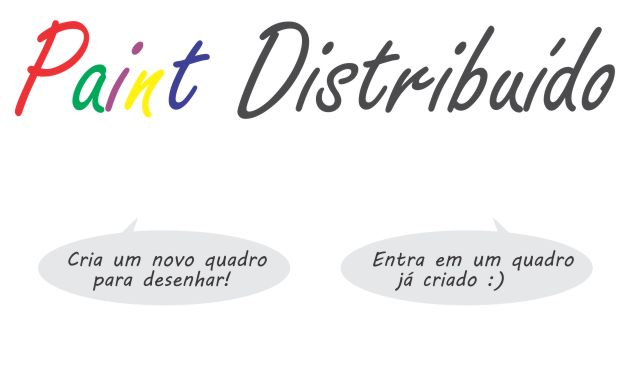
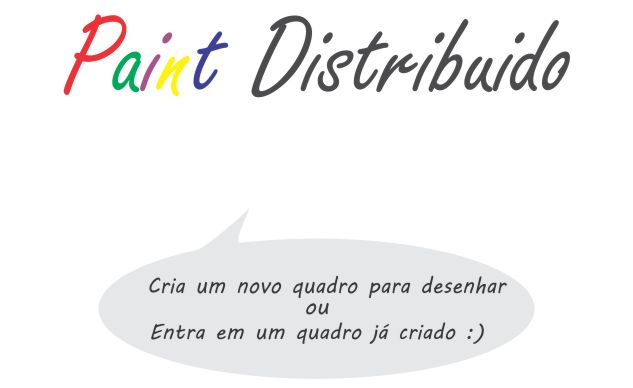
RMI Funcionando com diferentes usuários e cores

diff --git a/Breno/LinePanel.java b/Breno/LinePanel.java
@@ -63,16 +63,12 @@ public class LinePanel extends JPanel
         setVisible(true);           /* Deixando o Painel visível                    */
         setBackground(Color.white); /* Definindo o plano de fundo com a cor branca  */
 
-        JButton _btnCriar  = new JButton("Criar" );             /* Criando o botão para CRIAR um novo Quadro                    */
-        JButton _btnEntrar = new JButton("Entrar");             /* Criando um botão para ENTRAR em um Quadro já existente       */
+        JButton _btnCriar  = new JButton("Desenhar!" );             /* Criando o botão para CRIAR um novo Quadro                    */
+        
         _btnCriar.setFont (new Font("Arial", Font.BOLD, 20));   /* Define a fonte como Arial, negrito, tamanho 20               */
-        _btnEntrar.setFont(new Font("Arial", Font.BOLD, 20));   /* Define a fonte como Arial, negrito, tamanho 20               */
-        _btnCriar.setBounds (130, 144, 136, 72);                /* Define a posição do botão (x, y, width, height)              */
-        _btnEntrar.setBounds(363, 144, 136, 72);                /* Define a posição do botão (x, y, width, height)              */
+        _btnCriar.setBounds (225, 140, 156, 72);                /* Define a posição do botão (x, y, width, height)              */
         _btnCriar.addActionListener(new criar());               /* Adiciona funcionalidade de instanciar a classe criarQuadro   */
-        _btnEntrar.addActionListener(new entrar());             /* Adiciona funcionalidade de instanciar a classe criarQuadro   */
         add(_btnCriar);                                         /* Adiciona o botão ao Painel                                   */
-        add(_btnEntrar);                                        /* Adiciona o botão ao Painel                                   */
 
         // addMouseListener(new MouseAdapter()
         // {
@@ -102,7 +98,7 @@ public class LinePanel extends JPanel
         {
             String _nomeDoQuadro;
             String _nomeDoUsuario;
-            _nomeDoQuadro = JOptionPane.showInputDialog("Insira um nome para o quadro");
+            _nomeDoQuadro = JOptionPane.showInputDialog("Insira o nome do quadro");
             _nomeDoUsuario = JOptionPane.showInputDialog("Insira seu nome");
             
             try
@@ -116,14 +112,6 @@ public class LinePanel extends JPanel
         }
     }
 
-    private class entrar implements ActionListener{
-
-        @Override
-        public void actionPerformed(ActionEvent ae) {
-            
-        }
-        
-    }
 
     /**
      * Esse método será chamado toda vez que o componente precisar ser repintado.

diff --git a/Breno/PaintImpl.java b/Breno/PaintImpl.java
@@ -107,6 +107,7 @@ public class PaintImpl extends java.rmi.server.UnicastRemoteObject implements Pa
 		Usuario usuarioTemp = quadroTemp.usuarios.get(_nomeDoUsuario);
 		
 		Graphics2D xpto = quadroTemp.imagemDoQuadro.createGraphics();
+		xpto.setStroke(new BasicStroke (5.0f));
 		xpto.setPaint (usuarioTemp.corDoTraco);
 		xpto.drawLine(_CliqueX, _CliqueY, ultimoCliqueX, ultimoCliqueY);
 		xpto.dispose();
@@ -118,7 +119,7 @@ public class PaintImpl extends java.rmi.server.UnicastRemoteObject implements Pa
     	{
     		if(quadros.get(_nomeDoQuadro) == null)
     		{
-    			Quadro quadroCriado = new Quadro(_nomeDoQuadro, _nomeDoUsuario);														  		/* Instancia um novo quadro 							*/
+    			Quadro quadroCriado = new Quadro();														  		/* Instancia um novo quadro 							*/
 	    		quadroCriado.ultimaCorAtribuida = quadroCriado.ultimaCorAtribuida + 1; 					  	    /* Incrementa +1 na última cor atribuída à um usuário 	*/
 	    		Usuario usuarioCriado = new Usuario(quadroCriado.cores[quadroCriado.ultimaCorAtribuida % 10]);	/* Instancia um novo cliente							*/
 	    	
@@ -129,14 +130,19 @@ public class PaintImpl extends java.rmi.server.UnicastRemoteObject implements Pa
     		}
     		else
     		{
-    			if(quadros.usuario.get(_nomeDoUsuario) == null)
+    			Quadro quadroExistente = quadros.get(_nomeDoQuadro);
+    			if(quadroExistente.usuarios.get(_nomeDoUsuario) == null)
     			{
-    				Usuario usuarioCriado = new Usuario(quadroCriado.cores[quadroCriado.ultimaCorAtribuida % 10]);	/* Instancia um novo cliente							*/
+    				quadroExistente.ultimaCorAtribuida = quadroExistente.ultimaCorAtribuida + 1; 					  	    /* Incrementa +1 na última cor atribuída à um usuário 	*/
+    				Usuario usuarioCriado = new Usuario(quadroExistente.cores[quadroExistente.ultimaCorAtribuida % 10]);	/* Instancia um novo cliente							*/
+    				quadroExistente.usuarios.put(_nomeDoUsuario, usuarioCriado);
     				return 1;	
     			}
-    			
-	    		
+    			else
+    			{
 
+    			}
+    			return 1;
     		}
 	    	
     	}
